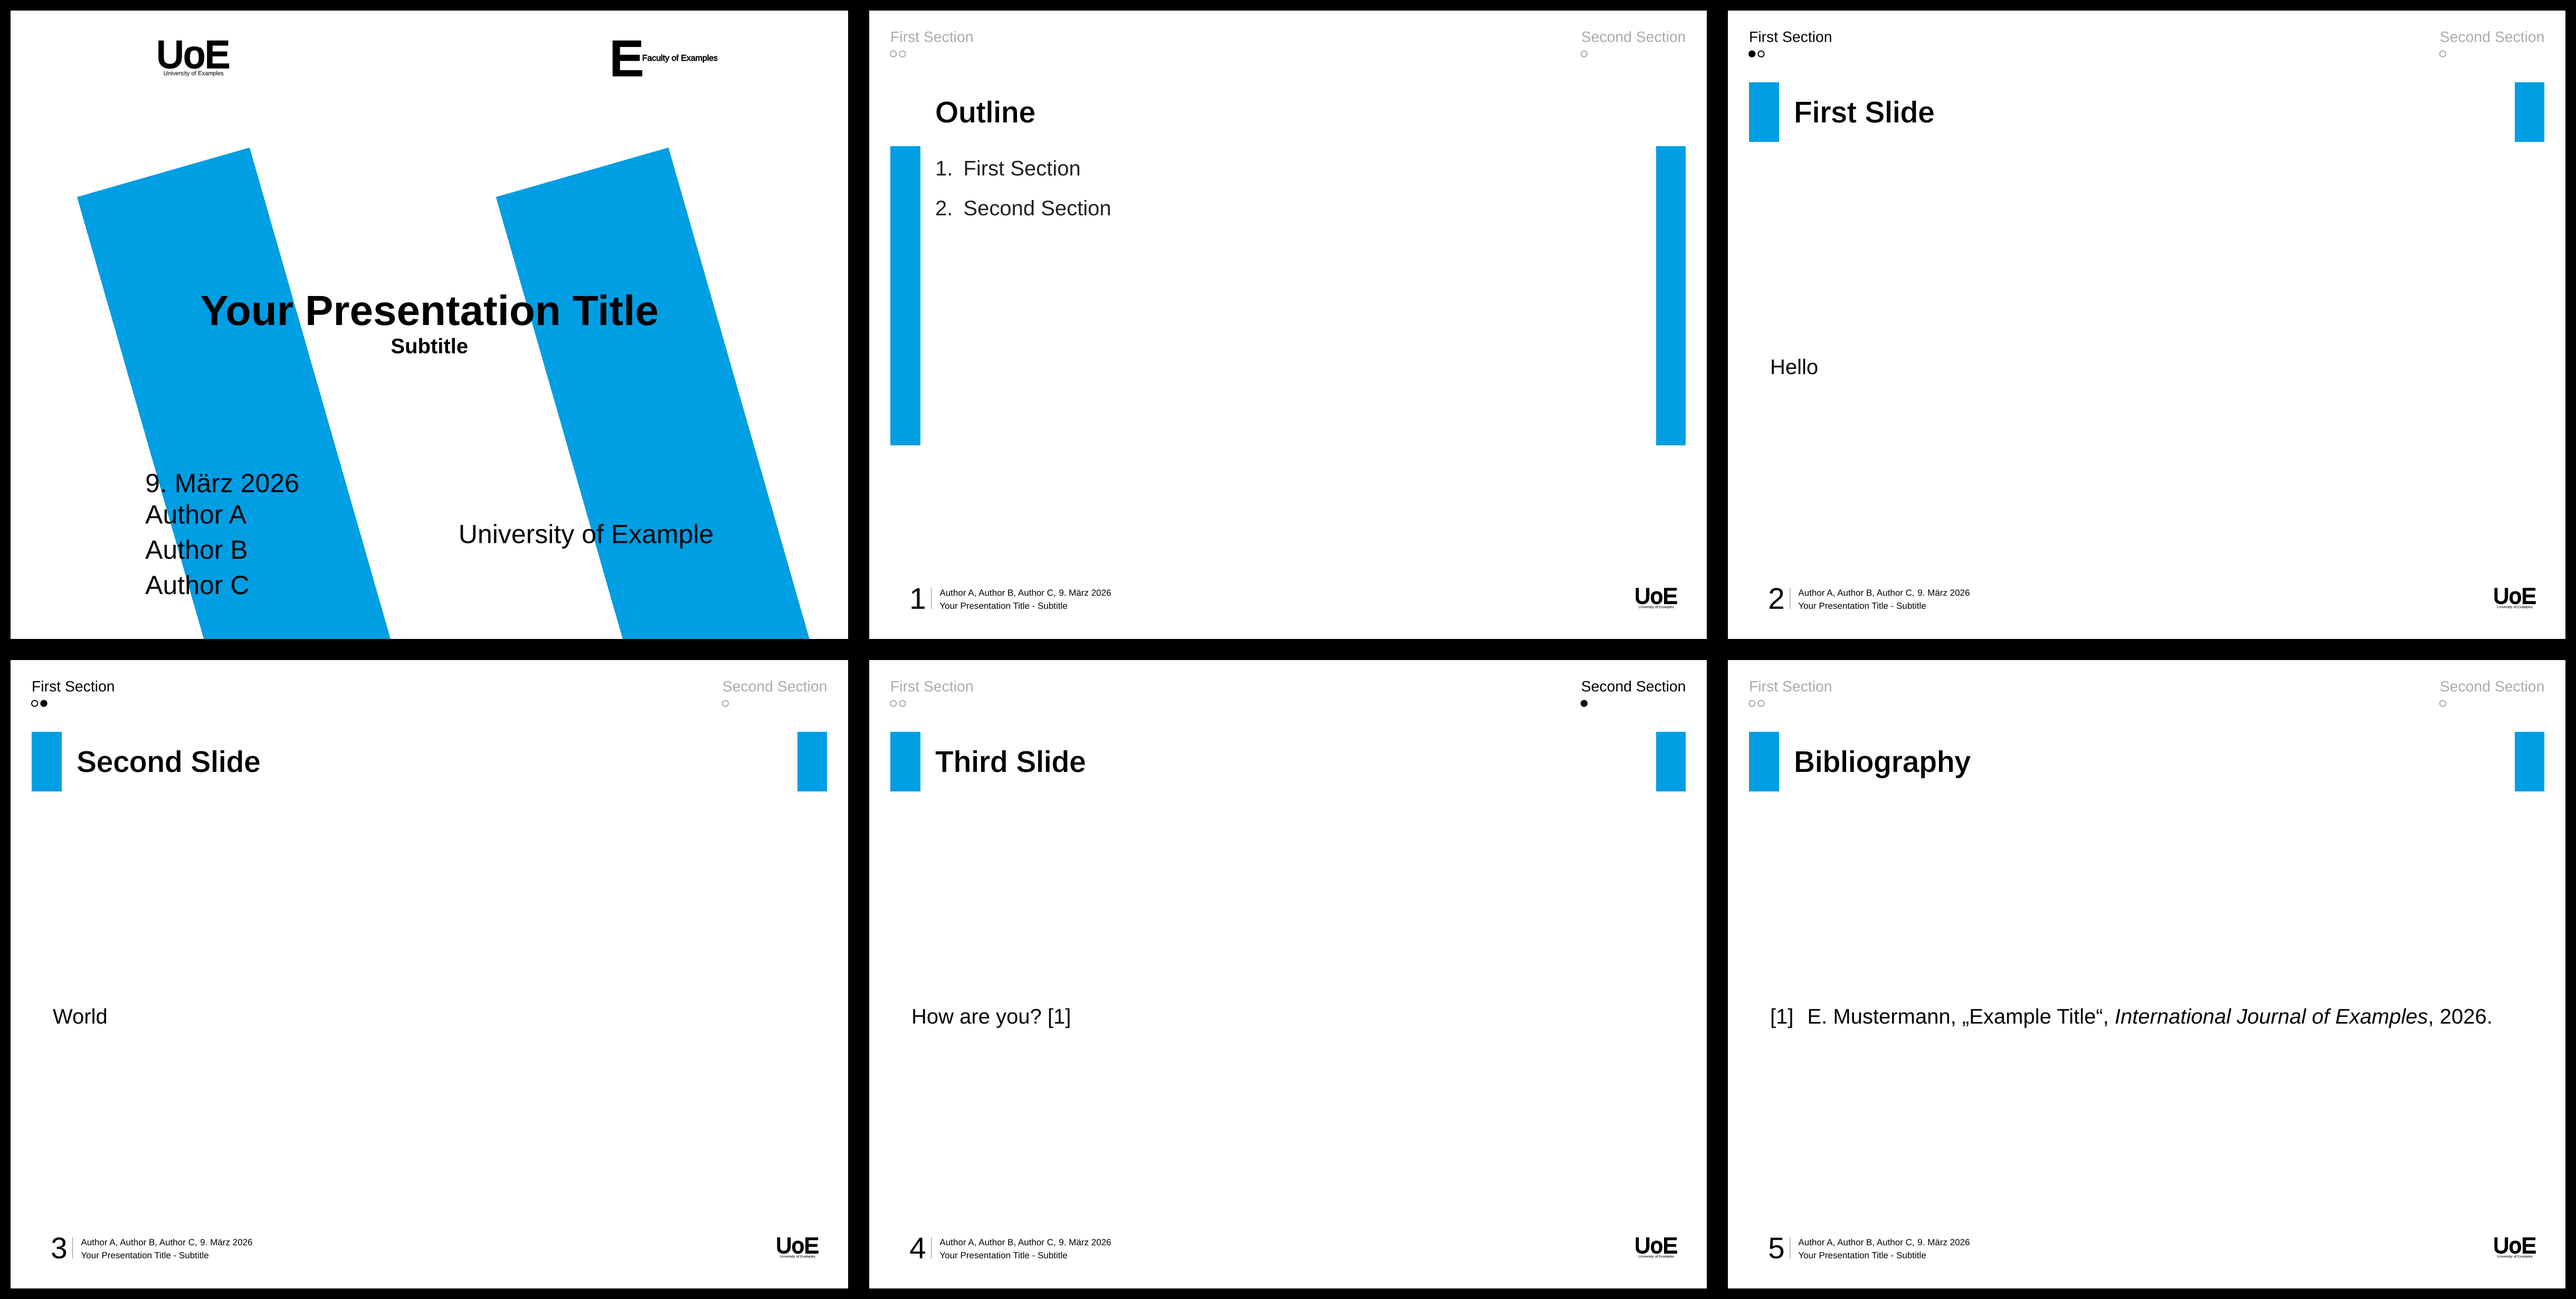
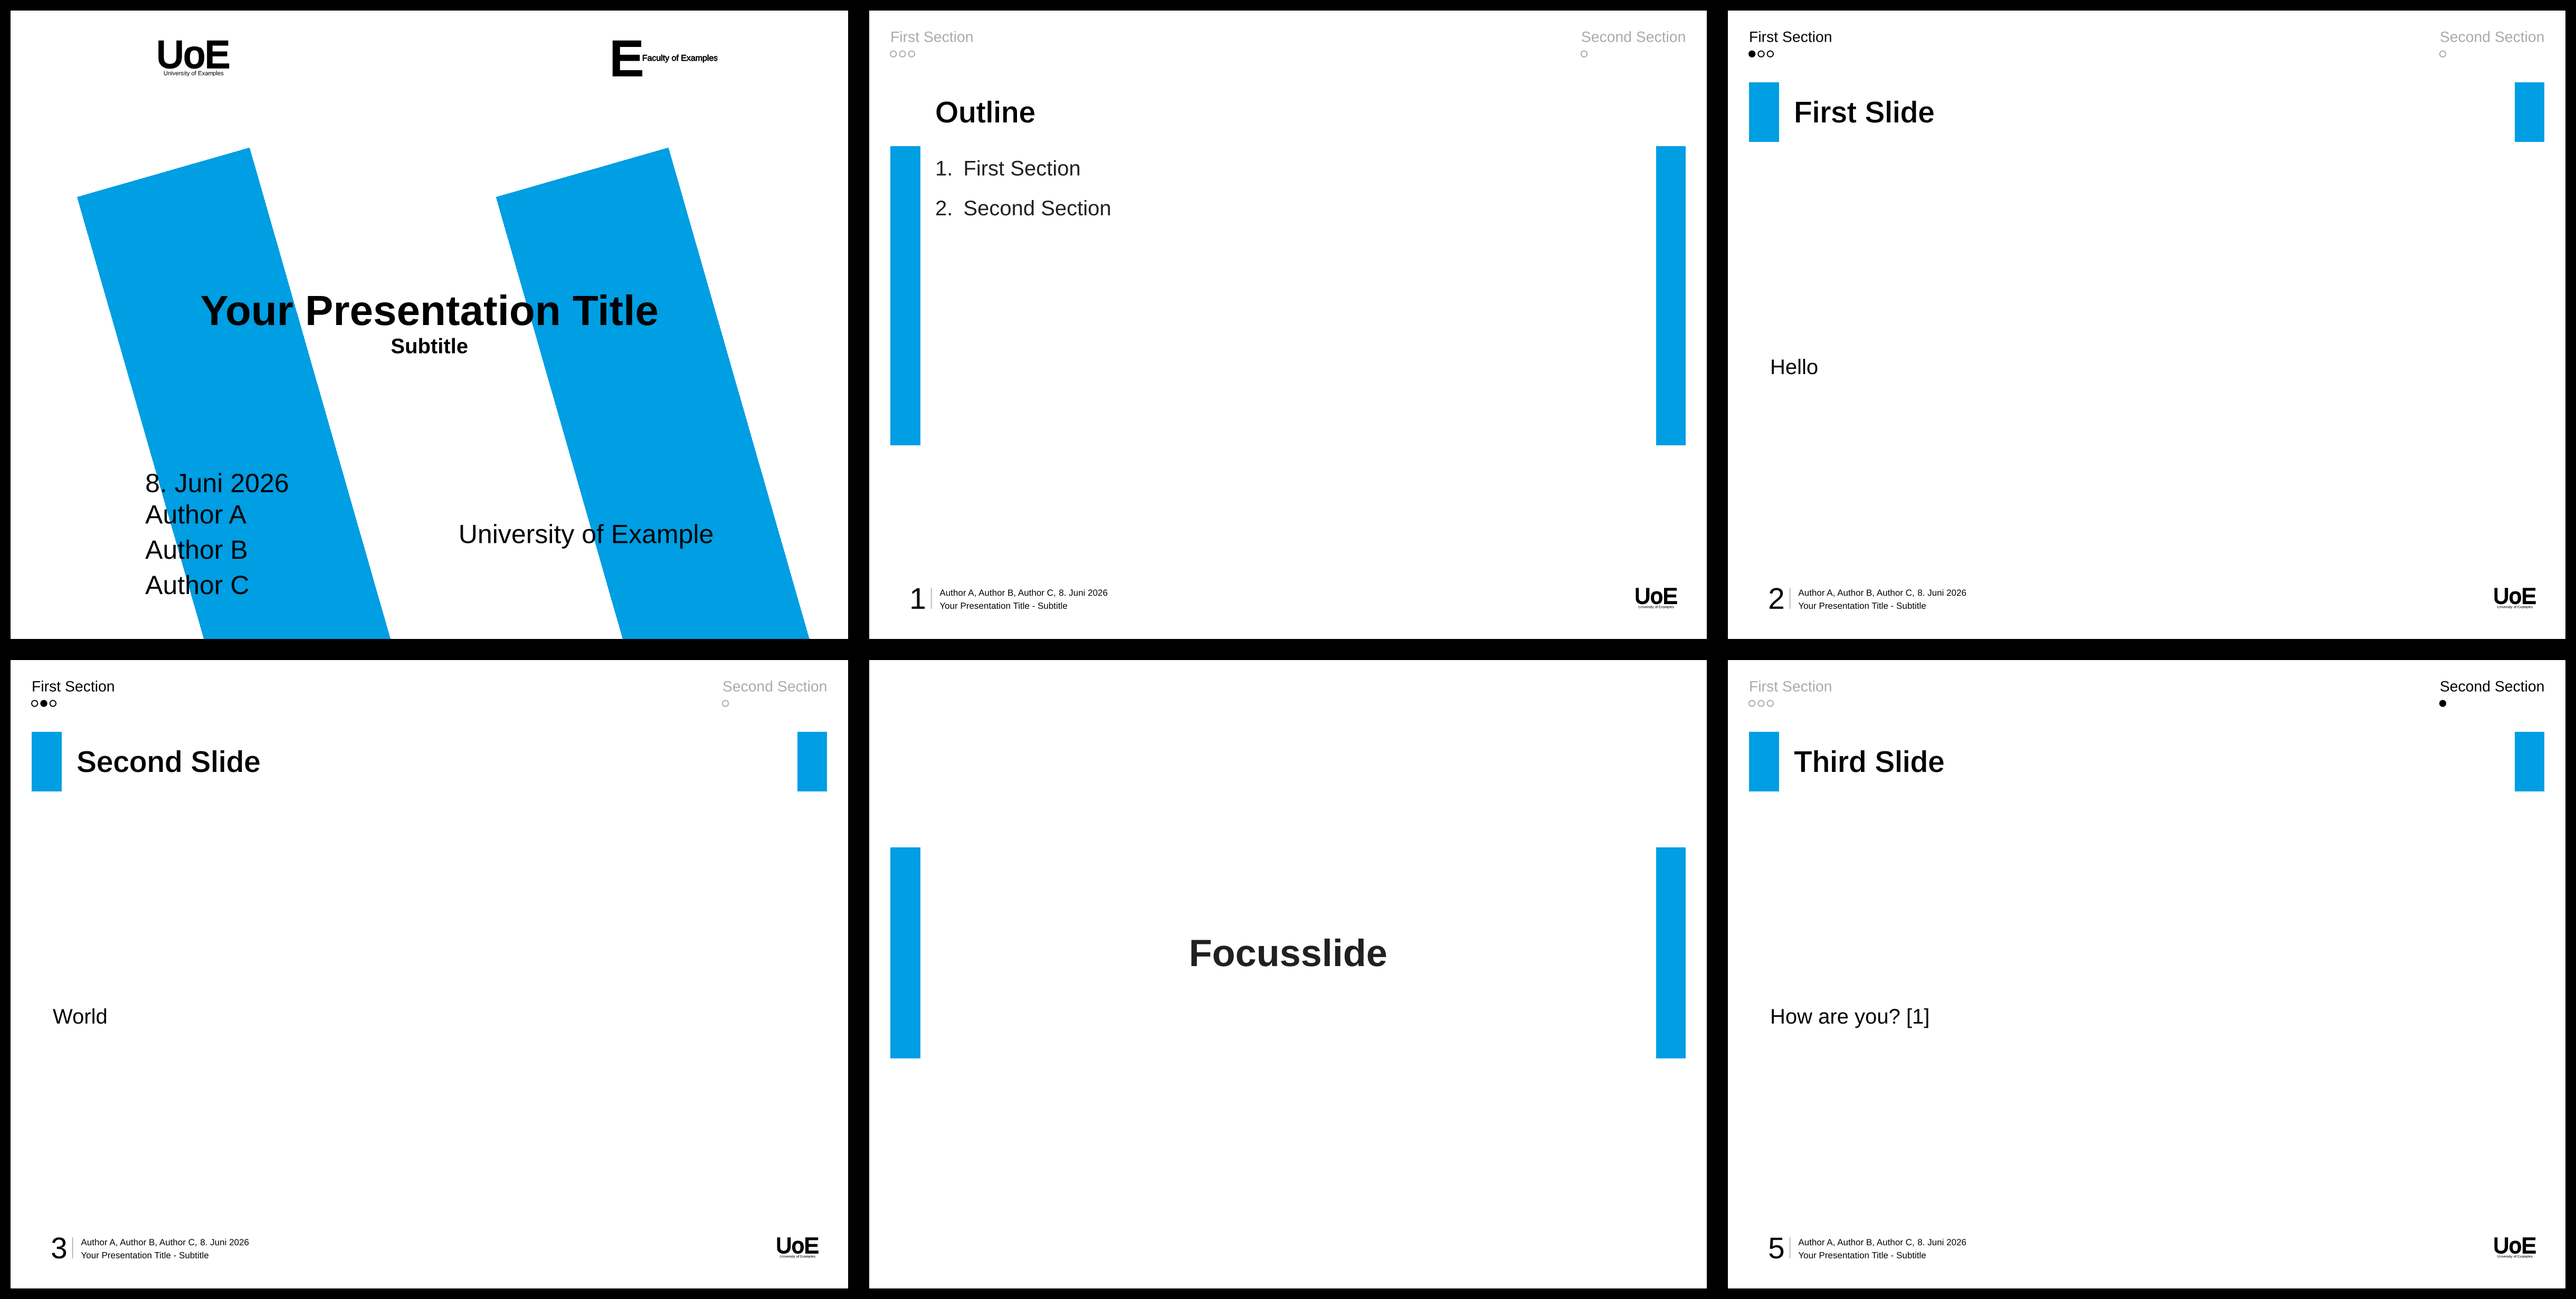
update version in readme

diff --git a/README.md b/README.md
@@ -13,7 +13,7 @@ The [example folder](https://github.com/klnsdr/touying-htwk-stripes/tree/main/ex
 ## Usage
 
 ```typst
-#import "@preview/touying-htwk-stripes:1.0.0": *
+#import "@preview/touying-htwk-stripes:1.0.1": *
 
 #show: htwk-stripes-theme.with(
   aspect-ratio: "4-3",
